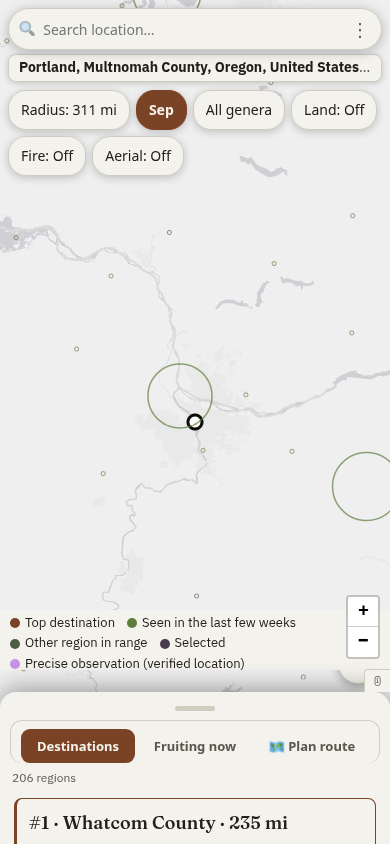
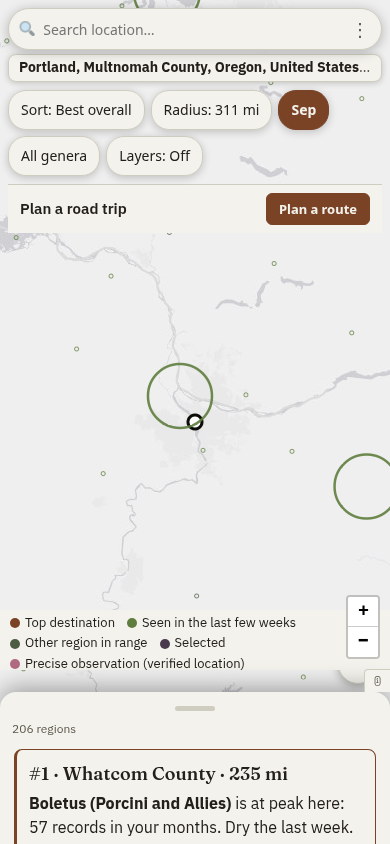
fix(frontend): mobile route-bar placement + 2 Copilot review nits (#303)
- The route-bar rendered near the top of the map on mobile because it's a
  sibling of #panel in the desktop dock and the sheet only relocates #panel.
  sheet.ts now moves #route-bar into #sheet alongside #panel (pinned last, so it
  sits at the sheet's bottom edge) and back on the way to desktop.
- Wire setShortlistChangeHook: a bulk "Clear" from the route bar now repaints the
  rendered cards' "+ Plan / ✓ In route" state (a single toggle already self-syncs
  its own card, so the hook fires only on clear).
- Details view: complete the ARIA tabs pattern - role="tab" / aria-selected /
  aria-controls on the buttons, role="tabpanel" / aria-labelledby on the bodies,
  roving tabindex + Left/Right arrow nav.

just frontend green (92 tests).

Claude-Session: https://claude.ai/code/session_01C4gno8NrD9eiyfQAra99cX

diff --git a/frontend/src/views/details.ts b/frontend/src/views/details.ts
@@ -29,16 +29,16 @@ export function openDetails(region: DetailRegion, title: string, onBack: () => v
     <div class="details-view">
       <button type="button" class="details-back">&larr; Back to results</button>
       <h3 class="details-title">${escapeHtml(title)}</h3>
-      <div class="rank-tabs" role="tablist">
-        <button type="button" class="rank-tab active" data-tab="calendar">Calendar</button>
-        <button type="button" class="rank-tab" data-tab="photos">Photos</button>
-        <button type="button" class="rank-tab" data-tab="trails">Trails</button>
-        <button type="button" class="rank-tab" data-tab="camps">Campgrounds</button>
+      <div class="rank-tabs" role="tablist" aria-label="Region details">
+        <button type="button" role="tab" id="dtab-calendar" aria-controls="dpanel-calendar" aria-selected="true" class="rank-tab active" data-tab="calendar">Calendar</button>
+        <button type="button" role="tab" id="dtab-photos" aria-controls="dpanel-photos" aria-selected="false" tabindex="-1" class="rank-tab" data-tab="photos">Photos</button>
+        <button type="button" role="tab" id="dtab-trails" aria-controls="dpanel-trails" aria-selected="false" tabindex="-1" class="rank-tab" data-tab="trails">Trails</button>
+        <button type="button" role="tab" id="dtab-camps" aria-controls="dpanel-camps" aria-selected="false" tabindex="-1" class="rank-tab" data-tab="camps">Campgrounds</button>
       </div>
-      <div class="rank-calendar" data-tab-content="calendar"></div>
-      <div class="rank-photos" data-tab-content="photos" hidden></div>
-      <div class="rank-trails" data-tab-content="trails" hidden></div>
-      <div class="rank-camps" data-tab-content="camps" hidden></div>
+      <div class="rank-calendar" id="dpanel-calendar" role="tabpanel" aria-labelledby="dtab-calendar" tabindex="0" data-tab-content="calendar"></div>
+      <div class="rank-photos" id="dpanel-photos" role="tabpanel" aria-labelledby="dtab-photos" tabindex="0" data-tab-content="photos" hidden></div>
+      <div class="rank-trails" id="dpanel-trails" role="tabpanel" aria-labelledby="dtab-trails" tabindex="0" data-tab-content="trails" hidden></div>
+      <div class="rank-camps" id="dpanel-camps" role="tabpanel" aria-labelledby="dtab-camps" tabindex="0" data-tab-content="camps" hidden></div>
     </div>`;
 
   qs<HTMLButtonElement>(".details-back", panel).onclick = onBack;
@@ -62,14 +62,32 @@ export function openDetails(region: DetailRegion, title: string, onBack: () => v
 
   const tabs = [...panel.querySelectorAll<HTMLButtonElement>(".rank-tab")];
   const show = (tab: DetailTab): void => {
-    tabs.forEach((button) => button.classList.toggle("active", button.dataset.tab === tab));
+    tabs.forEach((button) => {
+      const selected = button.dataset.tab === tab;
+      button.classList.toggle("active", selected);
+      button.setAttribute("aria-selected", String(selected));
+      button.tabIndex = selected ? 0 : -1; // roving tabindex - one tab stop for the strip
+    });
     (Object.keys(bodies) as DetailTab[]).forEach((key) => {
       bodies[key].hidden = key !== tab;
     });
     loaders[tab].open();
   };
-  tabs.forEach((button) => {
+  tabs.forEach((button, index) => {
     button.onclick = () => show(button.dataset.tab as DetailTab);
+    // Left/Right move between tabs per the WAI-ARIA tabs pattern.
+    button.onkeydown = (event) => {
+      const next =
+        event.key === "ArrowRight"
+          ? tabs[(index + 1) % tabs.length]
+          : event.key === "ArrowLeft"
+            ? tabs[(index - 1 + tabs.length) % tabs.length]
+            : null;
+      if (!next) return;
+      event.preventDefault();
+      next.focus();
+      next.click();
+    };
   });
 
   show("calendar");

diff --git a/frontend/src/map/sheet.ts b/frontend/src/map/sheet.ts
@@ -23,6 +23,8 @@ const MOBILE_MQ = "(max-width: 780px)";
 let sheetEl: HTMLElement;
 let handleEl: HTMLButtonElement;
 let panelEl: HTMLElement;
+let routeBarEl: HTMLElement;
+let dockCloseEl: HTMLElement;
 let mainEl: HTMLElement;
 
 let enabled = false;
@@ -219,7 +221,10 @@ function onPopstate(): void {
 function enable(): void {
   if (enabled) return;
   enabled = true;
+  // #panel and the route-bar both live in the desktop dock; the mobile sheet takes them over,
+  // route-bar pinned last so it sits at the sheet's bottom edge.
   if (panelEl.parentElement !== sheetEl) sheetEl.appendChild(panelEl);
+  if (routeBarEl.parentElement !== sheetEl) sheetEl.appendChild(routeBarEl);
   document.body.dataset.sheet = "on";
   current = "collapsed";
   sheetEl.dataset.detent = "collapsed";
@@ -239,7 +244,9 @@ function disable(): void {
   delete document.body.dataset.sheet;
   sheetEl.style.transform = "";
   sheetEl.style.transition = "";
-  if (panelEl.parentElement !== mainEl) mainEl.appendChild(panelEl); // back to the desktop grid
+  // back to the desktop dock, in order: … #panel, #route-bar, #dock-close
+  if (panelEl.parentElement !== mainEl) mainEl.insertBefore(panelEl, dockCloseEl);
+  if (routeBarEl.parentElement !== mainEl) mainEl.insertBefore(routeBarEl, dockCloseEl);
   // Unwind the sheet-only history entry so a later Back press isn't silently consumed popping
   // stale sheet state after a resize/orientation switch to desktop.
   if (ownsHistoryEntry) {
@@ -253,6 +260,8 @@ export function initSheet(): void {
   sheetEl = qs("#sheet");
   handleEl = qs<HTMLButtonElement>("#sheet-handle");
   panelEl = qs("#panel");
+  routeBarEl = qs("#route-bar");
+  dockCloseEl = qs("#dock-close");
   // #panel's desktop home is the slide-out dock (issue #297); enable() moves it into #sheet
   // for the mobile bottom sheet and disable() moves it back here.
   mainEl = qs("#dock");

diff --git a/frontend/src/main.ts b/frontend/src/main.ts
@@ -22,7 +22,7 @@ import { initPills, syncPillsForView } from "./ui/pills";
 import { OPEN_EVENT } from "./ui/pill";
 import { refreshCurrentView } from "./views/view-run";
 import { initMonths, runDestinations } from "./views/views";
-import { initRouteBar, renderActionBar } from "./views/shortlist";
+import { initRouteBar, renderActionBar, setShortlistChangeHook } from "./views/shortlist";
 
 // Wires a plan-tab Start/Destination field: unlike the header's home search (which persists the
 // choice via /api/location), a selected suggestion here just fills the input with resolved
@@ -161,6 +161,11 @@ async function main(): Promise<void> {
   // "Plan a route" on the shortlist action bar enters the Plan mode; runPlan() reads the
   // shortlisted region ids itself (views/plan.ts) and threads them as waypoints.
   initRouteBar(() => setPlanMode(true));
+  // Clearing (or toggling) the shortlist has to repaint the rendered cards' "+ Plan / ✓ In
+  // route" state - cheap re-render from the cached payload, no refetch.
+  setShortlistChangeHook(() => {
+    if (state.view === "destinations") void runDestinations({ reuseCache: true });
+  });
   // 'change' (not 'input') so a re-run only fires on blur/enter/stepper-click, not every
   // keystroke while typing a number.
   qs("#plan-stops").addEventListener("change", () => runPlan());

diff --git a/frontend/src/views/shortlist.ts b/frontend/src/views/shortlist.ts
@@ -7,10 +7,13 @@
 import { qs, state } from "../state";
 
 const ids: string[] = [];
-let onChange: () => void = () => {};
+// Fired when the shortlist changes in a way that isn't already reflected on a card - i.e. a
+// bulk clear. A single toggle comes from one card's own "+ Plan" button, which re-syncs itself
+// (card-dom syncPlan), so it doesn't need the hook.
+let onBulkChange: () => void = () => {};
 
 export function setShortlistChangeHook(hook: () => void): void {
-  onChange = hook;
+  onBulkChange = hook;
 }
 
 export function inShortlist(regionId: string): boolean {
@@ -26,13 +29,13 @@ export function toggleShortlist(regionId: string): void {
   if (at === -1) ids.push(regionId);
   else ids.splice(at, 1);
   renderActionBar();
-  onChange();
 }
 
 export function clearShortlist(): void {
+  if (ids.length === 0) return;
   ids.length = 0;
   renderActionBar();
-  onChange();
+  onBulkChange();
 }
 
 // Keeps #route-bar in sync: visible only on the Destinations flow (redundant inside Plan mode),

diff --git a/frontend/src/views/shortlist.test.ts b/frontend/src/views/shortlist.test.ts
@@ -32,13 +32,16 @@ describe("shortlist", () => {
     expect(inShortlist("5_5")).toBe(false);
   });
 
-  it("fires the change hook on every mutation", () => {
+  it("fires the bulk-change hook only on a non-empty clear, not on toggles", () => {
     const hook = vi.fn();
     setShortlistChangeHook(hook);
     toggleShortlist("2_3");
-    toggleShortlist("2_3");
+    toggleShortlist("5_5");
+    expect(hook).not.toHaveBeenCalled();
     clearShortlist();
-    expect(hook).toHaveBeenCalledTimes(3);
+    expect(hook).toHaveBeenCalledTimes(1);
+    clearShortlist(); // already empty - no-op
+    expect(hook).toHaveBeenCalledTimes(1);
   });
 
   it("shows the bar on the Destinations flow and updates its label + Clear button", () => {

diff --git a/frontend/src/style.css b/frontend/src/style.css
@@ -1194,6 +1194,11 @@ table.cal .heat {
     touch-action: pan-y;
     overscroll-behavior: contain;
   }
+  /* Route-bar rides at the sheet's bottom edge, after the scrolling #panel. */
+  body[data-sheet="on"] #route-bar {
+    flex: 0 0 auto;
+    touch-action: none;
+  }
   body[data-sheet="on"] #panel::before {
     content: none;
   } /* real handle replaces the old cosmetic one */
